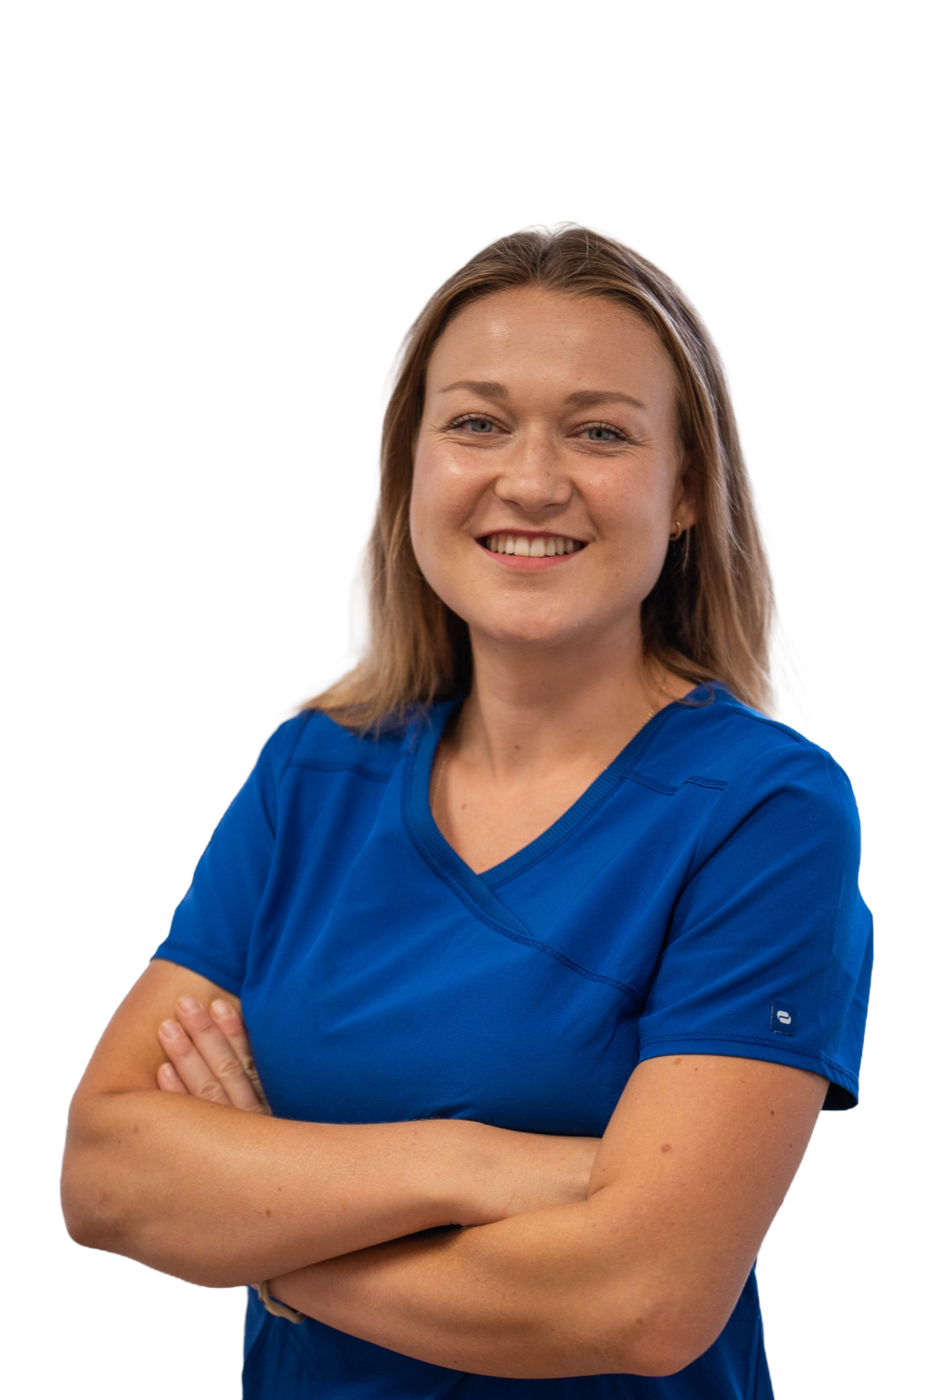
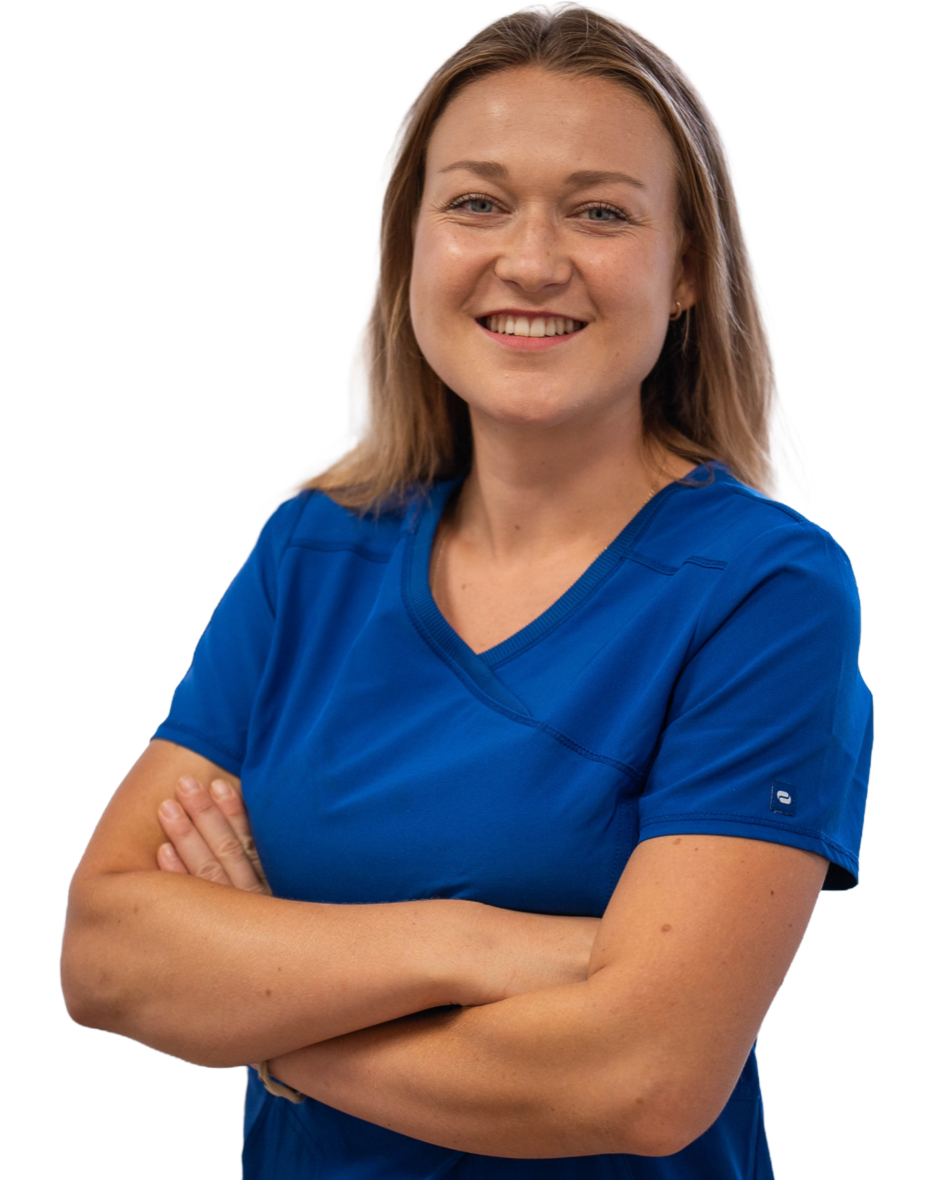
feat: Make hero portrait biggger

diff --git a/src/styles/global.css b/src/styles/global.css
@@ -76,13 +76,13 @@ img {
 .topbar {
   background: var(--taupe-700);
   color: var(--taupe-200);
-  padding: 10px var(--side-pad);
   font-size: 13px;
   letter-spacing: 0.03em;
 }
 .topbar-inner {
   max-width: var(--max-w);
   margin: 0 auto;
+  padding: 10px var(--side-pad);
   display: grid;
   grid-template-columns: 1fr auto 1fr;
   align-items: center;
@@ -432,6 +432,7 @@ img {
   opacity: 0.8;
   transform: scale(1.2);
   z-index: 0;
+  pointer-events: none;
 }
 .hero-bg::before {
   content: "";
@@ -1314,6 +1315,7 @@ img {
   width: 100%;
   height: auto;
   display: block;
+  transform: scale(1.2);
 }
 .svc-card-photo img,
 .svc-block-photo img,
